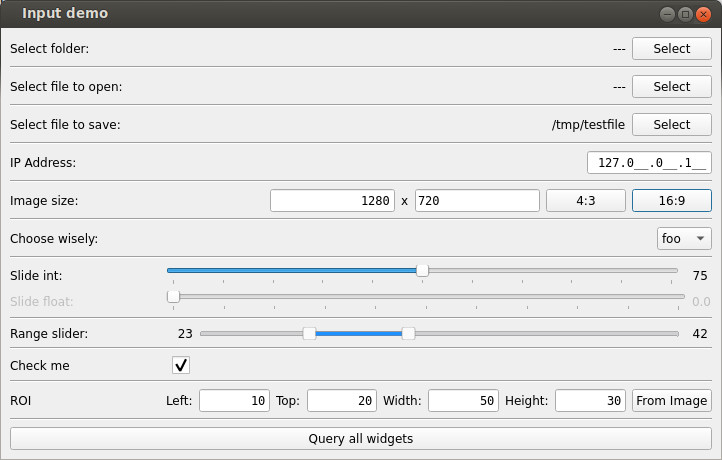
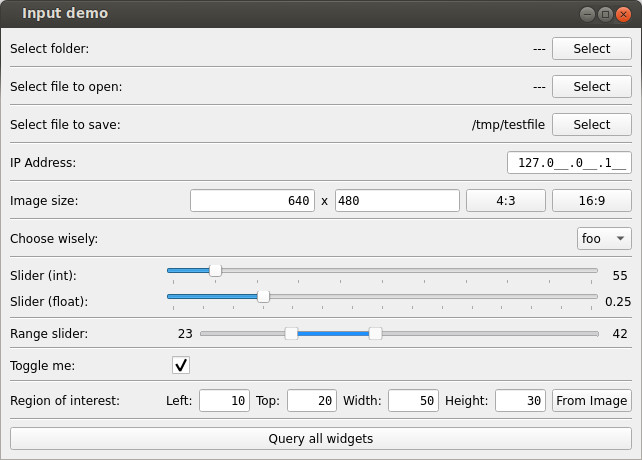
minor bug fix/usability improvement

diff --git a/iminspect/inputs.py b/iminspect/inputs.py
@@ -560,14 +560,15 @@ class SliderSelectionWidget(InputWidget):
         self.__value_changed()
 
     def __to_slider_value(self, value):
-        v = (value - self._min_value)/self._step_size
+        v = round((value - self._min_value)/self._step_size)
         return v
 
     def __slider_value(self):
         v = self._slider.value()
         v = self._min_value + v * self._step_size
-        # if 'd' in self._label_format:
-        #     return int(v)
+        # The user must cast the value to the proper scalar type (adding
+        # type configuration/constraints would complicate this simple widget
+        # unnecessarily imho)
         return v
 
     def __value_changed(self):
@@ -943,26 +944,27 @@ class InputDemoApplication(QMainWindow):
         main_layout.addWidget(self._dropdown)
         main_layout.addWidget(HLine())
 
-        self._slider = SliderSelectionWidget('Slide int:', 50, 100, 10,
+        self._slider = SliderSelectionWidget('Slider (int):', 50, 100, 10,
             value_format_fx=lambda v: format_int(v, 4), min_label_width=150)
 
         main_layout.addWidget(self._slider)
-        self._sliderf = SliderSelectionWidget('Slide float:', 0, 1, 10,
-            value_format_fx=lambda v: format_float(v, 3, 1), min_label_width=150)
+        self._sliderf = SliderSelectionWidget('Slider (float):', 0.1, 0.8, 14, initial_value=0.25,
+            value_format_fx=lambda v: format_float(v, 3, 2), min_label_width=150)
         main_layout.addWidget(self._sliderf)
-        self._sliderf.setEnabled(False)
+        # self._sliderf.setEnabled(False)
         main_layout.addWidget(HLine())
 
         self._slider_range = RangeSliderSelectionWidget('Range slider:', 0, 100,
+            initial_lower_value=23, initial_upper_value=42,
             value_format_fx=lambda v: format_int(v, 4), min_label_width=150)
         main_layout.addWidget(self._slider_range)
         main_layout.addWidget(HLine())
 
-        self._cb = CheckBoxWidget('Check me', is_checked=True, min_label_width=150)
+        self._cb = CheckBoxWidget('Toggle me:', is_checked=True, min_label_width=150)
         main_layout.addWidget(self._cb)
         main_layout.addWidget(HLine())
 
-        self._roi = RoiSelectWidget('ROI', roi=(10, 20, 50, 30), min_label_width=150,
+        self._roi = RoiSelectWidget('Region of interest:', roi=(10, 20, 50, 30), min_label_width=150,
             box_labels=['Left:', 'Top:', 'Width:', 'Height:'], support_image_selection=True)
         main_layout.addWidget(self._roi)
         main_layout.addWidget(HLine())

diff --git a/iminspect/version.py b/iminspect/version.py
@@ -1,1 +1,1 @@
-__version__ = '1.3.4'
+__version__ = '1.3.5'

diff --git a/README.md b/README.md
@@ -78,6 +78,8 @@ The `iminspect.inputs` subpackage provides common user input widgets, e.g. to se
 
 
 ## Changelog
+* `1.3.5`
+  * Bug fix - rounding issues during initialization of custom slider widgets (which use floats).
 * `1.3.4`
   * Minor tweaks to the `inputs` subpackage.
 * `1.3.3`
